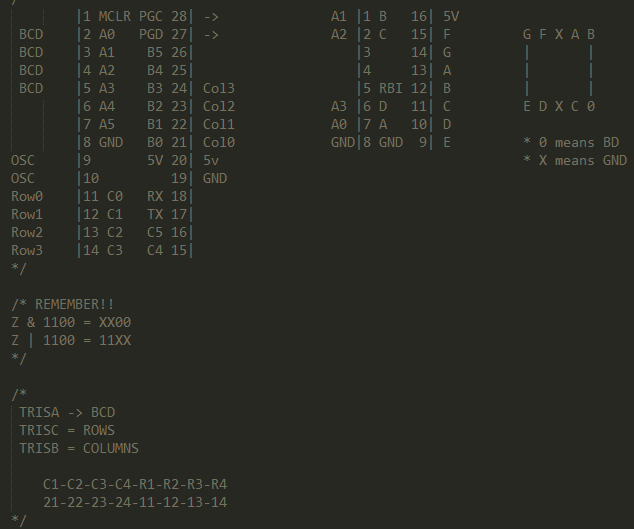
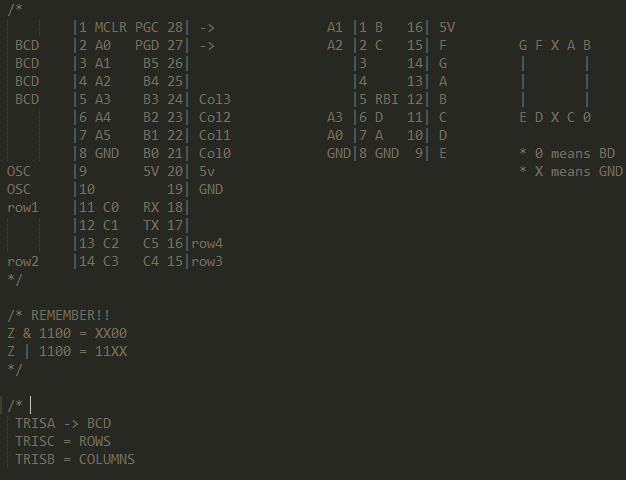
Changed the pinout
Pinout changed in order to free the CCP registers
ScanRow and ScanColumn updated to work properly with the new pinout

diff --git a/main.c b/main.c
@@ -4,6 +4,7 @@
 #pragma code
 
 const rom unsigned char encode[4] = { 0x01,0x02,0x04,0x08};   //  Type of inputs we could receive
+const rom unsigned char encodeRows[4] = {0b00000001,0b00001000,0b00010000,0b00100000};
 const rom unsigned char keyboard[4][4] = {
 {1,2,3,12},
 {4,5,6,13},
@@ -93,10 +94,10 @@ unsigned char ScanColumn(){
 		unsigned char column = 0xFF; // column = 11111111
 		unsigned char input;
 		//								 76543210
-		TRISC = TRISC & 0xF0; // TRISC = XXXX0000 Rows as ouputs
+		TRISC = TRISC & 0b11000110; // TRISC = XX000XX0 Rows as ouputs
 		TRISB = TRISB | 0x0F; // TRISB = XXXX1111 Columns as inputs
 		
-		PORTC = PORTC | 0x0F; // PORTC = XXXX1111 Turn on the rows
+		PORTC = PORTC | 0b00111001; // PORTC = XXXX1111 Turn on the rows
 		input = PORTB & 0x0F; // input = 0000XXXX Capture 0:3 Values
 	
 		for(i=0;i<4; i++) if (encode[i]==input) column = i;
@@ -111,13 +112,13 @@ unsigned char ScanRow(){
 	unsigned char row = 0xFF;
 	unsigned char input;
 
-	TRISC = TRISC | 0x0F;	// TRISC = XXXX1111 Rows as inputs
+	TRISC = TRISC | 0b00111001;	// TRISC = XX111XX1 Rows as inputs
 	TRISB = TRISB & 0xF0;	// TRISB = XXXX0000 Columns as outputs
 
-	PORTB = PORTB | 0x0F;	// PORTC = XXXX1111 Turn on the rows
-	input = PORTC & 0x0F;	// input = 0000XXXX Capture only the 0:3 values
+	PORTB = PORTB | 0x0F;	// PORTB = XXXX1111 Turn on the rows
+	input = PORTC & 0b00111001;	// input = 00XXX00X Capture only the values connected to the rows
 	
-	for(i=0; i<4; i++) if(encode[i] == input) row=i;
+	for(i=0; i<4; i++) if(encodeRows[i] == input) row=i;
 	return row; // row is the number of the row
 	
 }
@@ -277,7 +278,8 @@ unsigned char checkSequence(unsigned int index){
 	}
 	return 0;
 }	
-	
+unsigned char randByTime(){
+}	
 /*
 void beep(unsigned char note){
 	//   DutyCycle = 4 * (1/8*10^6) * 16 * (scaling value + 1)

diff --git a/main.h b/main.h
@@ -45,3 +45,4 @@ void printNumber(unsigned char number);
 unsigned char generateRnd(unsigned int index);
 void setSeed(void);
 
+unsigned char randByTime(void);
